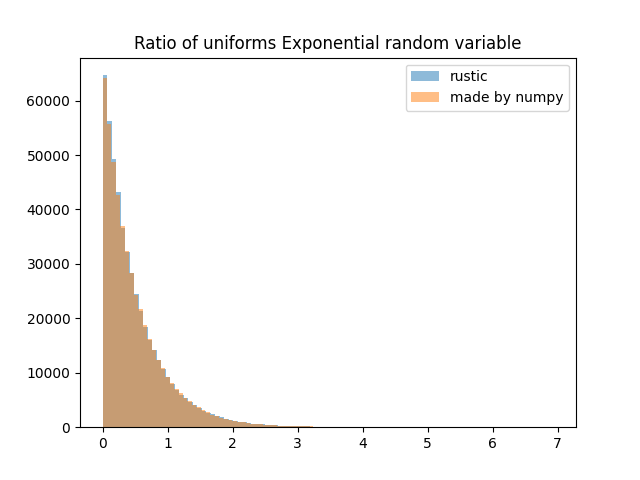
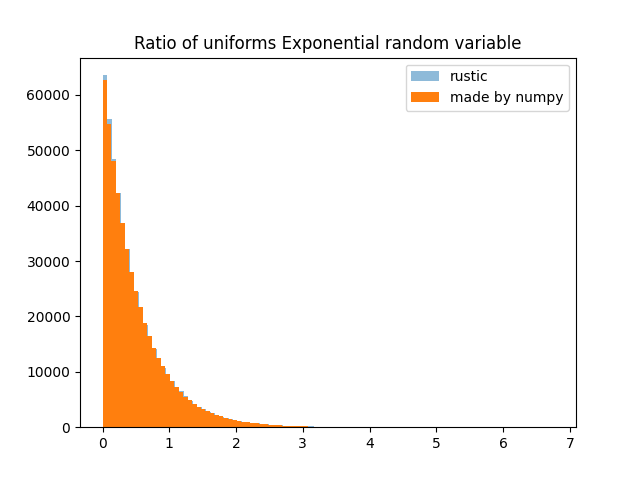
fixed a tinny booboo

diff --git a/ass6/p3.py b/ass6/p3.py
@@ -4,8 +4,8 @@ sys.stdout = open('outputs/ratio.txt', 'w')
 
 N=1000000
 
-uv = np.random.rand(N,2)#generate the space
-uv[:,1] = uv[:,1] *0.5 #shrink the space in v add more on this
+uv = np.random.rand(N,2)#generate the uv space
+uv[:,1] = uv[:,1] *0.5 #shrink the space in v as this is all that is needed to span. I think we can go marginally smaller too but this seems to be reasonable
 args = np.argwhere(uv[:,0] < np.exp(-uv[:,1]/uv[:,0]))#find the accepted spots
 my_exp = uv[args,1]/uv[args,0]#generate the output
 
@@ -18,7 +18,7 @@ import matplotlib.pyplot as plt
 plt.hist(my_exp, bins=100, alpha=0.5, label="rustic")
 npexp= np.random.exponential(scale= 0.5,size = my_exp.size)
 npexp = npexp[(npexp>-25) & (npexp<25)]
-plt.hist(npexp, bins=100, alpha=0.5, label="made by numpy")
+plt.hist(npexp, bins=100, alpha=1, label="made by numpy")
 plt.title("Ratio of uniforms Exponential random variable")
 plt.legend()
 plt.savefig("outputs/rat_exp.png")
